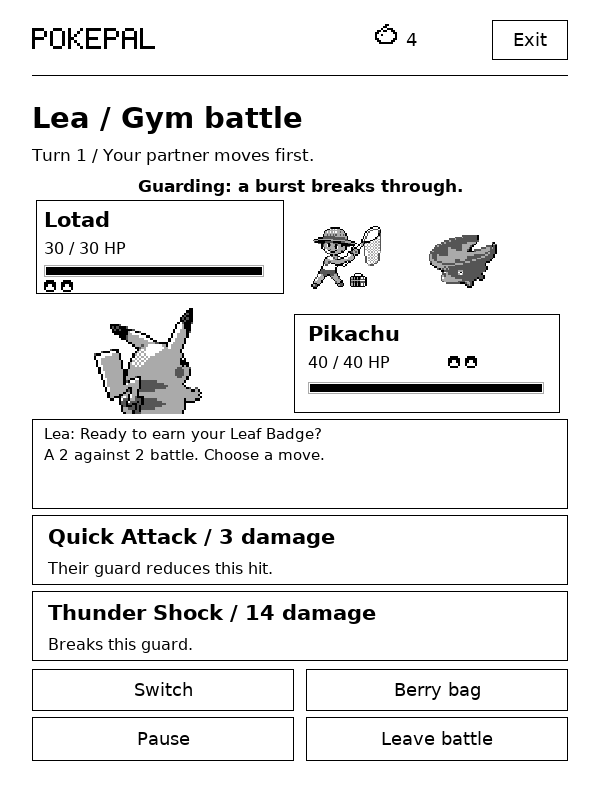
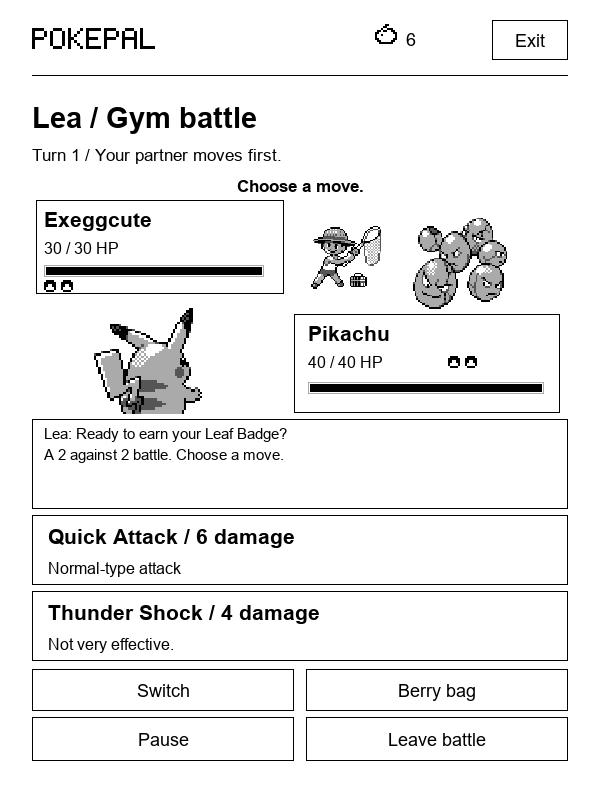
Replace guard and charge battles with straightforward attack turns

diff --git a/docs/explore-prototype.md b/docs/explore-prototype.md
@@ -48,7 +48,7 @@ Berries pay for adventure supplies and progression. The daily basket, reading re
 | Befriend a wild Pokémon | 3 berries |
 | Potion, restoring up to 16 HP | 2 berries |
 | Revive, restoring a fainted member to 20 HP | 4 berries; requires Leaf Badge |
-| Protect lesson | 2 berries |
+| Swift lesson | 2 berries |
 | Drain strike lesson | 4 berries; requires Tide Badge |
 | Battle Tower entry | 3 berries; requires Stone Badge |
 | Ranger / Tower outfit | 5 / 8 berries |
@@ -69,44 +69,44 @@ The existing quest and Coast-trainer route unlocks still work. Older saves with 
 
 Party battle HP is separate from care stats. Switching companions at home does not erase the party's injuries.
 
-Each partner starts with two learned moves. Pikachu's family has Quick Attack and Thunder Shock; Squirtle's has Water Gun and Withdraw; Bulbasaur's has Vine Whip and Leech Seed. There are 20 more starting pairs:
+Each partner starts with two learned moves. Pikachu's family has Quick Attack and Thunder Shock; Squirtle's has Water Gun and Bite; Bulbasaur's has Vine Whip and Leech Seed. There are 20 more starting pairs:
 
 | Pokémon line | Starting moves |
 | --- | --- |
-| Charmander | Ember, Smokescreen |
-| Sandshrew | Scratch, Defense Curl |
+| Charmander | Ember, Scratch |
+| Sandshrew | Scratch, Poison Sting |
 | Zubat | Wing Attack, Leech Life |
 | Oddish | Absorb, Acid |
-| Abra | Confusion, Reflect |
-| Machop | Karate Chop, Bulk Up |
-| Geodude | Rock Throw, Defense Curl |
+| Abra | Confusion, Psybeam |
+| Machop | Karate Chop, Low Kick |
+| Geodude | Rock Throw, Tackle |
 | Gastly | Lick, Night Shade |
-| Vaporeon | Water Gun, Acid Armor |
+| Vaporeon | Water Gun, Bite |
 | Jolteon | Pin Missile, Thunder Shock |
-| Snorlax | Body Slam, Amnesia |
-| Chikorita | Razor Leaf, Reflect |
+| Snorlax | Body Slam, Lick |
+| Chikorita | Razor Leaf, Tackle |
 | Totodile | Bite, Water Gun |
 | Treecko | Quick Attack, Mega Drain |
 | Torchic | Peck, Ember |
 | Mudkip | Water Gun, Mud Slap |
 | Lotad | Water Gun, Mega Drain |
 | Shroomish | Mega Drain, Leech Seed |
-| Aron | Metal Claw, Iron Defense |
-| Spheal | Powder Snow, Defense Curl |
+| Aron | Metal Claw, Headbutt |
+| Spheal | Powder Snow, Water Gun |
 
-These pairs carry through each evolution. Zubat can interrupt a charge or recover HP. Geodude can break a guard or block an attack before countering. Shroomish can keep draining HP, but has no quick move to interrupt a charge. Pokémon without a family pair use Quick strike and a burst of their primary type.
+These pairs carry through each evolution. Zubat can use Flying damage or recover HP with Leech Life. Geodude has Rock and Normal attacks. Shroomish has two ways to drain HP. Pokémon without a family pair use Tackle and an attack of their primary type.
 
-The dojo teaches Protect for two berries and Drain strike for four. The Tide Badge unlocks Drain strike. These lessons spend berries without using care energy. Choose either equipped slot and tap a learned move to replace it. The two slots must contain different moves.
+The dojo teaches Swift for two berries and Drain strike for four. The Tide Badge unlocks Drain strike. These lessons spend berries without using care energy. Choose either equipped slot and tap a learned move to replace it. The two slots must contain different moves.
 
-| Move kind | Effect and opening |
+| Move kind | Effect |
 | --- | --- |
-| Quick | Interrupts a charging opponent |
-| Burst | Deals extra damage through a guard |
-| Guard | Reduces incoming damage and strengthens the next hit after a successful block |
+| Attack | Deals damage using the move's type and power |
 | Leech Seed | Drains up to three HP for three turns |
 | Drain | Restores up to three HP when the hit deals damage |
 
-The opponent shows whether it is attacking, guarding or charging before you decide. Move buttons tell you when a hit will interrupt that charge, break that guard or fail against an immune opponent. A defensive move shows how much damage you will take. Type advantages and immunities apply. Move effects follow PokePal's rules, including the family pairs and shared dojo moves.
+Choose a move and your partner acts first. If the opponent survives, it attacks back that turn. Type advantages and immunities apply, and the move buttons show the expected damage. There are no guard, charge, interruption or guard-breaking turns. Opponent damage is reduced to account for attacking every turn. These are simplified PokePal battles with fixed HP and move power, rather than a full reproduction of the main games' battle rules.
+
+Existing saves keep their parties, HP, progress and equipped slot numbers. Former defensive moves become the attacking moves listed above; a learned Protect becomes Swift without another lesson fee. Old charge and counterattack flags no longer affect damage, and obsolete battle messages clear when you resume Explore.
 
 The switch screen shows how much damage each partner will take and the HP they will have after that turn. It includes type immunity, Leech Seed and Tower healing bonuses. Voluntary switching uses a turn. Replacing a fainted partner is free: no enemy attack, seed tick or turn advance occurs during its entrance. A potion costs two berries, restores up to 16 HP and also uses a turn in battle. Potions cannot revive a fainted partner. A revive restores a chosen fainted party member to 20 HP and uses a turn during battle. After your active partner faints, choose a replacement before using the bag. The Centre heals everyone for free.
 
@@ -121,7 +121,7 @@ Before a run, the Tower shows your party, their equipped moves and the first opp
 There are five trainer battles followed by a boss. Each trainer gets a fresh team matching your party size, including the boss. After each of the first five wins, choose one temporary benefit:
 
 - Restore 16 HP to the whole party.
-- Improve defensive moves for this run.
+- Take one less damage from each hit for this run. Repeated choices add to the reduction; damaging hits still deal at least one HP, and type immunity remains zero.
 - Restore three HP after a voluntary switch; repeated choices increase the bonus.
 
 Health carries between battles. Outside supplies are unavailable during a run. A completed run awards a rank, six berries and a Tower outfit. Fleeing or a full-party defeat ends the run without those rewards.
